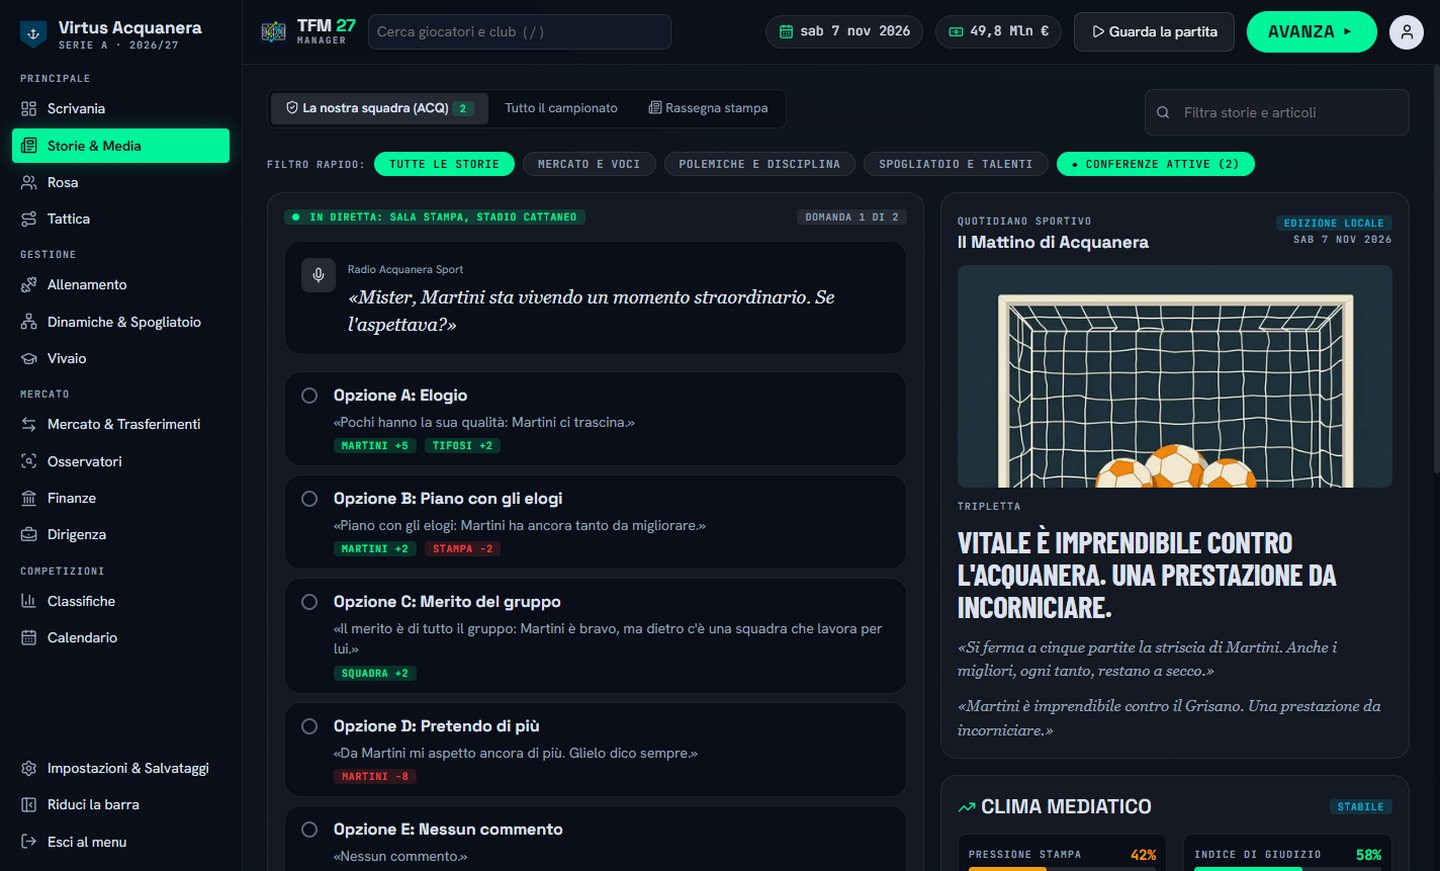
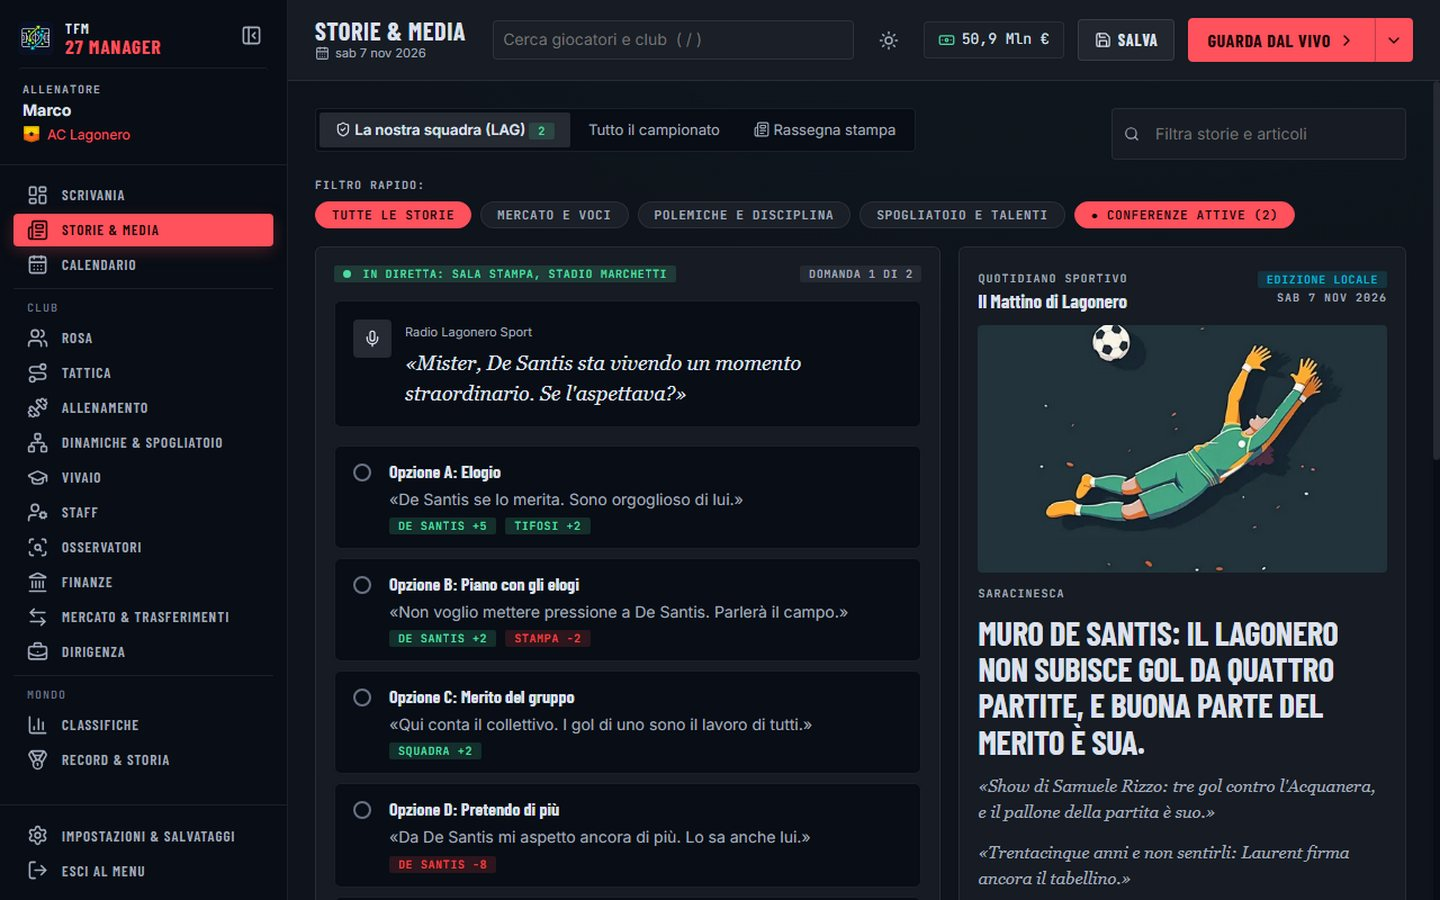
0.12.2: l'analista parla del punteggio che si vede; foto del sito con l'interfaccia v2
Nei salienti il motore corre avanti di 20-30 secondi: diff e gol recenti dell'analista non lo anticipano più.
tools/shots.cjs aggiornato all'interfaccia v2 (nuova carriera, barra laterale, discorso, partita a 40x senza salti).

diff --git a/site/download.html b/site/download.html
@@ -39,7 +39,7 @@
     <div class="hero">
       <div class="wrap split">
         <div>
-          <span class="pill g">Versione 0.12.1</span> <span class="pill">GPL-3.0 · codice aperto</span>
+          <span class="pill g">Versione 0.12.2</span> <span class="pill">GPL-3.0 · codice aperto</span>
           <h1>Scarica TFM 27 e scendi <span class="hl">subito in panchina.</span></h1>
           <p class="lead">Gira tutto sul tuo computer: nessun account, nessuna raccolta di dati, nessun costo nascosto.</p>
           <div class="grid g2" style="margin-top:26px">
@@ -48,10 +48,10 @@
           </div>
         </div>
         <div class="panel hi">
-          <div style="display:flex;justify-content:space-between;align-items:center;gap:10px"><h3><svg width="18" height="18" viewBox="0 0 24 24" fill="none" stroke="currentColor" stroke-width="2" stroke-linecap="round" stroke-linejoin="round" aria-hidden="true"><rect width="20" height="14" x="2" y="3" rx="2"/><path d="M8 21h8M12 17v4"/></svg> Windows 64 bit</h3><span class="tag">0.12.1</span></div>
-          <p style="margin-top:12px"><b class="mono" style="color:var(--text)">TFM27-Setup.exe</b> · 123 MB · versione 0.12.1</p>
+          <div style="display:flex;justify-content:space-between;align-items:center;gap:10px"><h3><svg width="18" height="18" viewBox="0 0 24 24" fill="none" stroke="currentColor" stroke-width="2" stroke-linecap="round" stroke-linejoin="round" aria-hidden="true"><rect width="20" height="14" x="2" y="3" rx="2"/><path d="M8 21h8M12 17v4"/></svg> Windows 64 bit</h3><span class="tag">0.12.2</span></div>
+          <p style="margin-top:12px"><b class="mono" style="color:var(--text)">TFM27-Setup.exe</b> · 123 MB · versione 0.12.2</p>
           <a class="btn primary big" style="width:100%;justify-content:center;margin:16px 0" href="https://github.com/XmarcoS10/talisman/releases/latest/download/TFM27-Setup.exe"><svg width="16" height="16" viewBox="0 0 24 24" fill="none" stroke="currentColor" stroke-width="2" stroke-linecap="round" stroke-linejoin="round" aria-hidden="true"><path d="M21 15v4a2 2 0 0 1-2 2H5a2 2 0 0 1-2-2v-4M7 10l5 5 5-5M12 15V3"/></svg> Scarica l'installer</a>
-          <div class="hash"><b>SHA-256</b>12cfbccda8b80194fe135fea3ee1a49e5a494b609f69ac58a589c0447ee2216a</div>
+          <div class="hash"><b>SHA-256</b>e83efead1642d0e51b8463bb4b84205ed41b38d5b8055f0b11ea92b7df9aa27a</div>
           <p style="margin-top:10px;font-size:13px">Per controllare il file scaricato, in PowerShell: <span class="mono">Get-FileHash TFM27-Setup.exe</span>. Il numero deve essere uguale.</p>
           <p style="margin-top:10px;font-size:13px"><a href="https://github.com/XmarcoS10/talisman/releases">Tutte le versioni</a> · <a href="https://github.com/XmarcoS10/talisman">Codice sorgente</a></p>
         </div>
@@ -85,7 +85,7 @@
           </ul>
         </div>
         <div class="panel">
-          <h3>Novità della 0.12.1</h3>
+          <h3>Novità della 0.12.2</h3>
           <ul class="checks">
             <li><b>Il vice parla alla squadra</b> quando giochi con «Solo il risultato»; l'IA usa i ruoli senza palla.</li>
             <li><b>Tattica con e senza palla</b>: due moduli e un ruolo senza palla per ognuno, come in FM26.</li>
@@ -165,7 +165,7 @@ pnpm dist:linux</pre>
         <div>
           <a class="brand" href="index.html"><img src="favicon.png" alt="" width="32" height="32" /><span>Tactic F.C. Manager</span></a>
           <p>Gioco manageriale di calcio gratuito, in italiano e in inglese. Spogliatoio vivo, partite in 2D, storie che nascono dal campionato.</p>
-          <p><span class="tag">GPL-3.0</span> <span class="tag cy">v0.12.1</span></p>
+          <p><span class="tag">GPL-3.0</span> <span class="tag cy">v0.12.2</span></p>
         </div>
         <div><h4>Il sito</h4><ul><li><a href="index.html">Home</a></li><li><a href="caratteristiche.html">Caratteristiche</a></li><li><a href="motore.html">Motore 2D e partita</a></li><li><a href="download.html">Download e guida</a></li><li><a href="community.html">Community e note</a></li></ul></div>
         <div><h4>Documenti</h4><ul>

diff --git a/site/en/download.html b/site/en/download.html
@@ -39,7 +39,7 @@
     <div class="hero">
       <div class="wrap split">
         <div>
-          <span class="pill g">Version 0.12.1</span> <span class="pill">GPL-3.0 · open source</span>
+          <span class="pill g">Version 0.12.2</span> <span class="pill">GPL-3.0 · open source</span>
           <h1>Download TFM 27 and <span class="hl">take your seat on the bench.</span></h1>
           <p class="lead">Everything runs on your computer: no account, no data collection, no hidden costs.</p>
           <div class="grid g2" style="margin-top:26px">
@@ -48,10 +48,10 @@
           </div>
         </div>
         <div class="panel hi">
-          <div style="display:flex;justify-content:space-between;align-items:center;gap:10px"><h3><svg width="18" height="18" viewBox="0 0 24 24" fill="none" stroke="currentColor" stroke-width="2" stroke-linecap="round" stroke-linejoin="round" aria-hidden="true"><rect width="20" height="14" x="2" y="3" rx="2"/><path d="M8 21h8M12 17v4"/></svg> Windows 64-bit</h3><span class="tag">0.12.1</span></div>
-          <p style="margin-top:12px"><b class="mono" style="color:var(--text)">TFM27-Setup.exe</b> · 123 MB · version 0.12.1</p>
+          <div style="display:flex;justify-content:space-between;align-items:center;gap:10px"><h3><svg width="18" height="18" viewBox="0 0 24 24" fill="none" stroke="currentColor" stroke-width="2" stroke-linecap="round" stroke-linejoin="round" aria-hidden="true"><rect width="20" height="14" x="2" y="3" rx="2"/><path d="M8 21h8M12 17v4"/></svg> Windows 64-bit</h3><span class="tag">0.12.2</span></div>
+          <p style="margin-top:12px"><b class="mono" style="color:var(--text)">TFM27-Setup.exe</b> · 123 MB · version 0.12.2</p>
           <a class="btn primary big" style="width:100%;justify-content:center;margin:16px 0" href="https://github.com/XmarcoS10/talisman/releases/latest/download/TFM27-Setup.exe"><svg width="16" height="16" viewBox="0 0 24 24" fill="none" stroke="currentColor" stroke-width="2" stroke-linecap="round" stroke-linejoin="round" aria-hidden="true"><path d="M21 15v4a2 2 0 0 1-2 2H5a2 2 0 0 1-2-2v-4M7 10l5 5 5-5M12 15V3"/></svg> Download the installer</a>
-          <div class="hash"><b>SHA-256</b>12cfbccda8b80194fe135fea3ee1a49e5a494b609f69ac58a589c0447ee2216a</div>
+          <div class="hash"><b>SHA-256</b>e83efead1642d0e51b8463bb4b84205ed41b38d5b8055f0b11ea92b7df9aa27a</div>
           <p style="margin-top:10px;font-size:13px">To check the downloaded file, in PowerShell: <span class="mono">Get-FileHash TFM27-Setup.exe</span>. The number must match.</p>
           <p style="margin-top:10px;font-size:13px"><a href="https://github.com/XmarcoS10/talisman/releases">All versions</a> · <a href="https://github.com/XmarcoS10/talisman">Source code</a></p>
         </div>
@@ -85,7 +85,7 @@
           </ul>
         </div>
         <div class="panel">
-          <h3>New in 0.12.1</h3>
+          <h3>New in 0.12.2</h3>
           <ul class="checks">
             <li><b>Your assistant gives the team talks</b> when you play "Result only"; the AI uses out-of-possession roles.</li>
             <li><b>In and out of possession tactics</b>: two formations and an out-of-possession role for everyone, as in FM26.</li>
@@ -165,7 +165,7 @@ pnpm dist:linux</pre>
         <div>
           <a class="brand" href="index.html"><img src="../favicon.png" alt="" width="32" height="32" /><span>Tactic F.C. Manager</span></a>
           <p>A free football management game, in English and Italian. A living dressing room, 2D matches, stories that grow out of the league.</p>
-          <p><span class="tag">GPL-3.0</span> <span class="tag cy">v0.12.1</span></p>
+          <p><span class="tag">GPL-3.0</span> <span class="tag cy">v0.12.2</span></p>
         </div>
         <div><h4>The site</h4><ul><li><a href="index.html">Home</a></li><li><a href="caratteristiche.html">Features</a></li><li><a href="motore.html">2D engine and match</a></li><li><a href="download.html">Download and guide</a></li><li><a href="community.html">Community and notes</a></li></ul></div>
         <div><h4>Documents</h4><ul>

diff --git a/site/community.html b/site/community.html
@@ -103,7 +103,7 @@
           <p>Il gioco è costruito a fasi, ognuna provata prima di passare alla successiva.</p></div>
         <div class="grid g3 road">
           <div class="panel done"><span class="tag">Fatto · 0.1</span><h3>Il gioco completo e il collaudo</h3><p>Motore partita e campo 2D, spogliatoio, mercato e osservatori, storie e stampa, finanze e dirigenza, vivaio e nazionali, coppa e Primavera, installer per Windows.</p></div>
-          <div class="panel now"><span class="tag cy">Adesso · 0.12.1</span><h3>La nuova interfaccia</h3><p>Cornice e Scrivania personalizzabile; poi partita, rosa, tattica e le altre schermate, e funzioni nuove: discorsi alla squadra, staff. Prima: fase di costruzione nel motore, allenatori dell'IA, arbitri, meteo, radiocronaca, database della community.</p></div>
+          <div class="panel now"><span class="tag cy">Adesso · 0.12.2</span><h3>La nuova interfaccia</h3><p>Cornice e Scrivania personalizzabile; poi partita, rosa, tattica e le altre schermate, e funzioni nuove: discorsi alla squadra, staff. Prima: fase di costruzione nel motore, allenatori dell'IA, arbitri, meteo, radiocronaca, database della community.</p></div>
           <div class="panel next"><span class="tag am">Dopo · 1.0</span><h3>Più campionati e l'editor</h3><p>Possesso più realistico, versione Linux, altre leghe, un editor per il mondo.</p></div>
         </div>
       </div>
@@ -125,7 +125,7 @@
     <section>
       <div class="wrap">
         <div class="cta-box">
-          <div><div class="kicker">Pronto per la panchina?</div><h2>Scendi in campo.</h2><p>Scarica la 0.12.1 e dicci cosa ne pensi.</p></div>
+          <div><div class="kicker">Pronto per la panchina?</div><h2>Scendi in campo.</h2><p>Scarica la 0.12.2 e dicci cosa ne pensi.</p></div>
           <div class="row"><a class="btn" href="download.html">Come si installa</a><a class="btn primary big" href="https://github.com/XmarcoS10/talisman/releases/latest/download/TFM27-Setup.exe"><svg width="16" height="16" viewBox="0 0 24 24" fill="none" stroke="currentColor" stroke-width="2" stroke-linecap="round" stroke-linejoin="round" aria-hidden="true"><path d="M21 15v4a2 2 0 0 1-2 2H5a2 2 0 0 1-2-2v-4M7 10l5 5 5-5M12 15V3"/></svg> Scarica TFM 27</a></div>
         </div>
       </div>
@@ -138,7 +138,7 @@
         <div>
           <a class="brand" href="index.html"><img src="favicon.png" alt="" width="32" height="32" /><span>Tactic F.C. Manager</span></a>
           <p>Gioco manageriale di calcio gratuito, in italiano e in inglese. Spogliatoio vivo, partite in 2D, storie che nascono dal campionato.</p>
-          <p><span class="tag">GPL-3.0</span> <span class="tag cy">v0.12.1</span></p>
+          <p><span class="tag">GPL-3.0</span> <span class="tag cy">v0.12.2</span></p>
         </div>
         <div><h4>Il sito</h4><ul><li><a href="index.html">Home</a></li><li><a href="caratteristiche.html">Caratteristiche</a></li><li><a href="motore.html">Motore 2D e partita</a></li><li><a href="download.html">Download e guida</a></li><li><a href="community.html">Community e note</a></li></ul></div>
         <div><h4>Documenti</h4><ul>

diff --git a/site/en/community.html b/site/en/community.html
@@ -103,7 +103,7 @@
           <p>The game is built in phases, each one tested before moving on to the next.</p></div>
         <div class="grid g3 road">
           <div class="panel done"><span class="tag">Done · 0.1</span><h3>The complete game and first testing</h3><p>Match engine and 2D pitch, dressing room, transfers and scouting, stories and press, finances and board, academy and national teams, cup and youth league, Windows installer.</p></div>
-          <div class="panel now"><span class="tag cy">Now · 0.12.1</span><h3>The new interface</h3><p>Frame and customisable desk; then match, squad, tactics and the other screens, and new features: team talks, staff. Before that: build-up play in the engine, AI managers, referees, weather, radio commentary, community database.</p></div>
+          <div class="panel now"><span class="tag cy">Now · 0.12.2</span><h3>The new interface</h3><p>Frame and customisable desk; then match, squad, tactics and the other screens, and new features: team talks, staff. Before that: build-up play in the engine, AI managers, referees, weather, radio commentary, community database.</p></div>
           <div class="panel next"><span class="tag am">Next · 1.0</span><h3>More leagues and the editor</h3><p>More realistic possession, a Linux version, more leagues, an editor for the world.</p></div>
         </div>
       </div>
@@ -125,7 +125,7 @@
     <section>
       <div class="wrap">
         <div class="cta-box">
-          <div><div class="kicker">Ready for the dugout?</div><h2>Take the field.</h2><p>Download 0.12.1 and tell us what you think.</p></div>
+          <div><div class="kicker">Ready for the dugout?</div><h2>Take the field.</h2><p>Download 0.12.2 and tell us what you think.</p></div>
           <div class="row"><a class="btn" href="download.html">How to install</a><a class="btn primary big" href="https://github.com/XmarcoS10/talisman/releases/latest/download/TFM27-Setup.exe"><svg width="16" height="16" viewBox="0 0 24 24" fill="none" stroke="currentColor" stroke-width="2" stroke-linecap="round" stroke-linejoin="round" aria-hidden="true"><path d="M21 15v4a2 2 0 0 1-2 2H5a2 2 0 0 1-2-2v-4M7 10l5 5 5-5M12 15V3"/></svg> Download TFM 27</a></div>
         </div>
       </div>
@@ -138,7 +138,7 @@
         <div>
           <a class="brand" href="index.html"><img src="../favicon.png" alt="" width="32" height="32" /><span>Tactic F.C. Manager</span></a>
           <p>A free football management game, in English and Italian. A living dressing room, 2D matches, stories that grow out of the league.</p>
-          <p><span class="tag">GPL-3.0</span> <span class="tag cy">v0.12.1</span></p>
+          <p><span class="tag">GPL-3.0</span> <span class="tag cy">v0.12.2</span></p>
         </div>
         <div><h4>The site</h4><ul><li><a href="index.html">Home</a></li><li><a href="caratteristiche.html">Features</a></li><li><a href="motore.html">2D engine and match</a></li><li><a href="download.html">Download and guide</a></li><li><a href="community.html">Community and notes</a></li></ul></div>
         <div><h4>Documents</h4><ul>

diff --git a/site/en/index.html b/site/en/index.html
@@ -40,7 +40,7 @@
       <div class="wrap split">
         <div>
           <img class="logo" src="../img/logo.webp" alt="Tactic F.C. Manager" width="150" height="175" />
-          <span class="pill g">Version 0.12.1 · free</span>
+          <span class="pill g">Version 0.12.2 · free</span>
           <h1>You don't manage a squad.<br /><span class="hl">You manage a group of people.</span></h1>
           <p class="lead">Tactic F.C. Manager is a free football management game, in English and Italian. Your players have friends and rivals, a morale that spreads to the others, promises they remember — and agents who remember them too.</p>
           <div class="cta">
@@ -94,7 +94,7 @@
       <div class="wrap">
         <div class="head c"><div class="kicker">Take a look</div><h2>What it looks like</h2></div>
         <div class="grid g3">
-          <div class="shot"><div class="bar">tactics<span></span></div><img src="../img/tattica.jpg" alt="Tactics with formation and roles" loading="lazy" /></div>
+          <div class="shot"><div class="bar">tactics<span></span></div><img src="../img/tattica.jpg" alt="Tactics in and out of possession, as in FM26" loading="lazy" /></div>
           <div class="shot"><div class="bar">dressing room<span></span></div><img src="../img/spogliatoio.jpg" alt="The dressing room graph" loading="lazy" /></div>
           <div class="shot"><div class="bar">transfers<span></span></div><img src="../img/mercato.jpg" alt="The player search with estimates" loading="lazy" /></div>
           <div class="shot"><div class="bar">press<span></span></div><img src="../img/storie.jpg" alt="A press conference" loading="lazy" /></div>
@@ -119,7 +119,7 @@
         <div>
           <a class="brand" href="index.html"><img src="../favicon.png" alt="" width="32" height="32" /><span>Tactic F.C. Manager</span></a>
           <p>A free football management game, in English and Italian. A living dressing room, 2D matches, stories that grow out of the league.</p>
-          <p><span class="tag">GPL-3.0</span> <span class="tag cy">v0.12.1</span></p>
+          <p><span class="tag">GPL-3.0</span> <span class="tag cy">v0.12.2</span></p>
         </div>
         <div><h4>The site</h4><ul><li><a href="index.html">Home</a></li><li><a href="caratteristiche.html">Features</a></li><li><a href="motore.html">2D engine and match</a></li><li><a href="download.html">Download and guide</a></li><li><a href="community.html">Community and notes</a></li></ul></div>
         <div><h4>Documents</h4><ul>

diff --git a/site/index.html b/site/index.html
@@ -40,7 +40,7 @@
       <div class="wrap split">
         <div>
           <img class="logo" src="img/logo.webp" alt="Tactic F.C. Manager" width="150" height="175" />
-          <span class="pill g">Versione 0.12.1 · gratis</span>
+          <span class="pill g">Versione 0.12.2 · gratis</span>
           <h1>Non alleni una rosa.<br /><span class="hl">Alleni un gruppo di persone.</span></h1>
           <p class="lead">Tactic F.C. Manager è un gioco manageriale di calcio, gratuito, in italiano e in inglese. I tuoi giocatori hanno amici e rivali, un morale che contagia gli altri, promesse che si ricordano — e agenti che se le ricordano per loro.</p>
           <div class="cta">
@@ -94,7 +94,7 @@
       <div class="wrap">
         <div class="head c"><div class="kicker">Guarda</div><h2>Come si presenta</h2></div>
         <div class="grid g3">
-          <div class="shot"><div class="bar">tattica<span></span></div><img src="img/tattica.jpg" alt="La tattica con modulo e ruoli" loading="lazy" /></div>
+          <div class="shot"><div class="bar">tattica<span></span></div><img src="img/tattica.jpg" alt="La tattica con e senza palla, come in FM26" loading="lazy" /></div>
           <div class="shot"><div class="bar">spogliatoio<span></span></div><img src="img/spogliatoio.jpg" alt="Il grafo dello spogliatoio" loading="lazy" /></div>
           <div class="shot"><div class="bar">mercato<span></span></div><img src="img/mercato.jpg" alt="La ricerca giocatori con stime" loading="lazy" /></div>
           <div class="shot"><div class="bar">stampa<span></span></div><img src="img/storie.jpg" alt="Una conferenza stampa" loading="lazy" /></div>
@@ -119,7 +119,7 @@
         <div>
           <a class="brand" href="index.html"><img src="favicon.png" alt="" width="32" height="32" /><span>Tactic F.C. Manager</span></a>
           <p>Gioco manageriale di calcio gratuito, in italiano e in inglese. Spogliatoio vivo, partite in 2D, storie che nascono dal campionato.</p>
-          <p><span class="tag">GPL-3.0</span> <span class="tag cy">v0.12.1</span></p>
+          <p><span class="tag">GPL-3.0</span> <span class="tag cy">v0.12.2</span></p>
         </div>
         <div><h4>Il sito</h4><ul><li><a href="index.html">Home</a></li><li><a href="caratteristiche.html">Caratteristiche</a></li><li><a href="motore.html">Motore 2D e partita</a></li><li><a href="download.html">Download e guida</a></li><li><a href="community.html">Community e note</a></li></ul></div>
         <div><h4>Documenti</h4><ul>

diff --git a/src/ui/match/analyst.ts b/src/ui/match/analyst.ts
@@ -95,8 +95,8 @@ export const RULES: Rule[] = [
   { id: 'tiredKey', prio: 86, when: (c) => c.tired.length > 0 && c.subsLeft > 0 && c.min > 55, vars: (c) => ({ name: nm(c.tired[0] ?? null), v: Math.round(c.tired[0]?.energy ?? 0) }) },
   { id: 'tiredMany', prio: 84, when: (c) => c.tired.length >= 3 && c.subsLeft > 0, vars: (c) => ({ n: c.tired.length }) },
   { id: 'noSubsLate', prio: 70, when: (c) => c.min > 70 && c.subsLeft >= 4 },
-  { id: 'justConceded', prio: 92, when: (c) => c.lastGoalMin > 0 && !c.lastGoalUs && c.min - c.lastGoalMin <= 3 },
-  { id: 'justScored', prio: 90, when: (c) => c.lastGoalMin > 0 && c.lastGoalUs && c.min - c.lastGoalMin <= 3 },
+  { id: 'justConceded', prio: 92, when: (c) => c.lastGoalMin > 0 && c.lastGoalMin <= c.min && !c.lastGoalUs && c.min - c.lastGoalMin <= 3 },
+  { id: 'justScored', prio: 90, when: (c) => c.lastGoalMin > 0 && c.lastGoalMin <= c.min && c.lastGoalUs && c.min - c.lastGoalMin <= 3 },
   { id: 'twoDownLate', prio: 89, when: (c) => c.diff <= -2 && c.min >= 60 },
   { id: 'twoUpLate', prio: 82, when: (c) => c.diff >= 2 && c.min >= 65 },
   { id: 'trailLate', prio: 87, when: (c) => c.diff === -1 && c.min >= 70 },

diff --git a/src/ui/screens/Live.tsx b/src/ui/screens/Live.tsx
@@ -69,8 +69,9 @@ export function Live({ world, live, onFinish }: { world: WorldState; live: LiveD
   const total = score[0] + score[1];
   if (total > goals.current) { goals.current = total; playUi('goal'); }
   crowdIntensity((st?.frame?.mom ?? 0) * (me === 0 ? 1 : -1) / 100 + 0.4);
-  const ctx = context(run, me, run.frames, world.clubs[world.manager.clubId]!.playerIds
-    .reduce((s, id) => s + world.players[id]!.psych.morale, 0) / world.clubs[world.manager.clubId]!.playerIds.length);
+  // il punteggio è quello che si vede: il motore corre avanti (nei salienti di 20-30 secondi) e non va anticipato
+  const ctx = { ...context(run, me, run.frames, world.clubs[world.manager.clubId]!.playerIds
+    .reduce((s, id) => s + world.players[id]!.psych.morale, 0) / world.clubs[world.manager.clubId]!.playerIds.length), diff: score[me] - score[1 - me]! };
 
   const over = run.done && T.current >= duration(run);
   // la frase dell'analista cambia ogni 5 minuti di gioco, e al fischio finale diventa il commento alla partita

diff --git a/site/caratteristiche.html b/site/caratteristiche.html
@@ -149,7 +149,7 @@
         <div>
           <a class="brand" href="index.html"><img src="favicon.png" alt="" width="32" height="32" /><span>Tactic F.C. Manager</span></a>
           <p>Gioco manageriale di calcio gratuito, in italiano e in inglese. Spogliatoio vivo, partite in 2D, storie che nascono dal campionato.</p>
-          <p><span class="tag">GPL-3.0</span> <span class="tag cy">v0.12.1</span></p>
+          <p><span class="tag">GPL-3.0</span> <span class="tag cy">v0.12.2</span></p>
         </div>
         <div><h4>Il sito</h4><ul><li><a href="index.html">Home</a></li><li><a href="caratteristiche.html">Caratteristiche</a></li><li><a href="motore.html">Motore 2D e partita</a></li><li><a href="download.html">Download e guida</a></li><li><a href="community.html">Community e note</a></li></ul></div>
         <div><h4>Documenti</h4><ul>

diff --git a/site/en/caratteristiche.html b/site/en/caratteristiche.html
@@ -149,7 +149,7 @@
         <div>
           <a class="brand" href="index.html"><img src="../favicon.png" alt="" width="32" height="32" /><span>Tactic F.C. Manager</span></a>
           <p>A free football management game, in English and Italian. A living dressing room, 2D matches, stories that grow out of the league.</p>
-          <p><span class="tag">GPL-3.0</span> <span class="tag cy">v0.12.1</span></p>
+          <p><span class="tag">GPL-3.0</span> <span class="tag cy">v0.12.2</span></p>
         </div>
         <div><h4>The site</h4><ul><li><a href="index.html">Home</a></li><li><a href="caratteristiche.html">Features</a></li><li><a href="motore.html">2D engine and match</a></li><li><a href="download.html">Download and guide</a></li><li><a href="community.html">Community and notes</a></li></ul></div>
         <div><h4>Documents</h4><ul>

diff --git a/site/en/motore.html b/site/en/motore.html
@@ -160,7 +160,7 @@
         <div>
           <a class="brand" href="index.html"><img src="../favicon.png" alt="" width="32" height="32" /><span>Tactic F.C. Manager</span></a>
           <p>A free football management game, in English and Italian. A living dressing room, 2D matches, stories that grow out of the league.</p>
-          <p><span class="tag">GPL-3.0</span> <span class="tag cy">v0.12.1</span></p>
+          <p><span class="tag">GPL-3.0</span> <span class="tag cy">v0.12.2</span></p>
         </div>
         <div><h4>The site</h4><ul><li><a href="index.html">Home</a></li><li><a href="caratteristiche.html">Features</a></li><li><a href="motore.html">2D engine and match</a></li><li><a href="download.html">Download and guide</a></li><li><a href="community.html">Community and notes</a></li></ul></div>
         <div><h4>Documents</h4><ul>

diff --git a/site/motore.html b/site/motore.html
@@ -160,7 +160,7 @@
         <div>
           <a class="brand" href="index.html"><img src="favicon.png" alt="" width="32" height="32" /><span>Tactic F.C. Manager</span></a>
           <p>Gioco manageriale di calcio gratuito, in italiano e in inglese. Spogliatoio vivo, partite in 2D, storie che nascono dal campionato.</p>
-          <p><span class="tag">GPL-3.0</span> <span class="tag cy">v0.12.1</span></p>
+          <p><span class="tag">GPL-3.0</span> <span class="tag cy">v0.12.2</span></p>
         </div>
         <div><h4>Il sito</h4><ul><li><a href="index.html">Home</a></li><li><a href="caratteristiche.html">Caratteristiche</a></li><li><a href="motore.html">Motore 2D e partita</a></li><li><a href="download.html">Download e guida</a></li><li><a href="community.html">Community e note</a></li></ul></div>
         <div><h4>Documenti</h4><ul>
